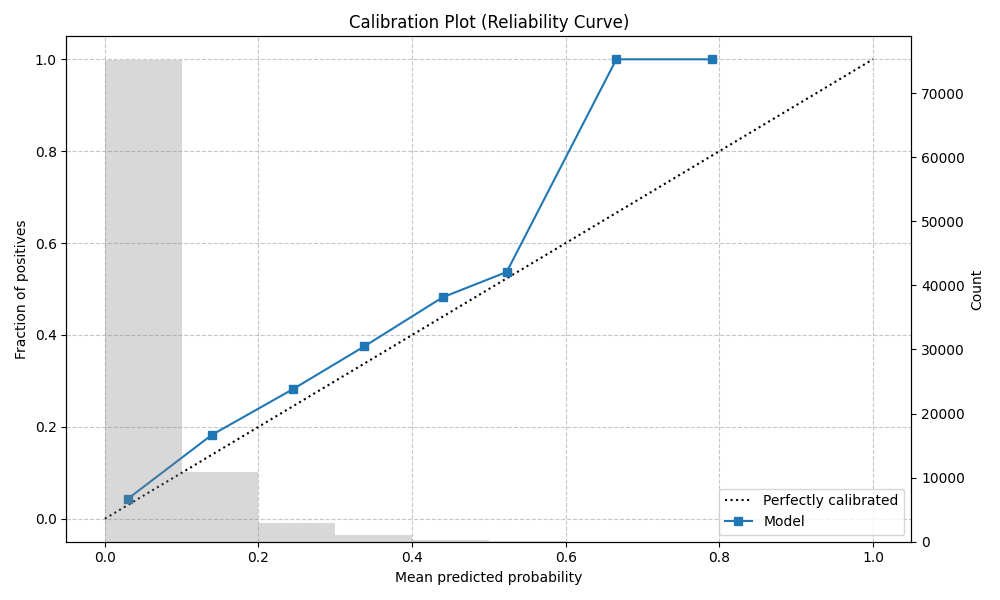
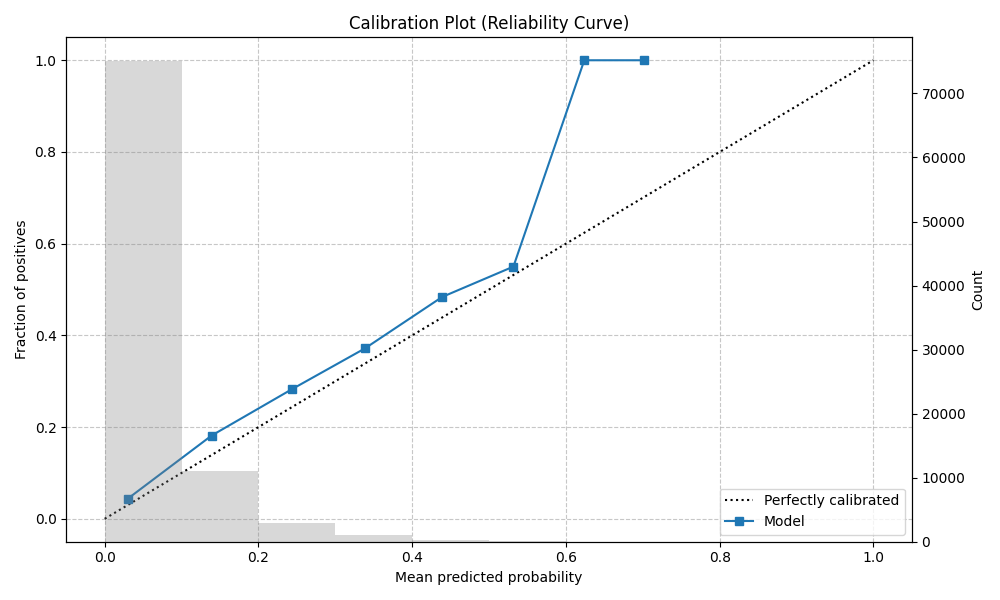
feat: シミュレーション戦略のEV閾値を調整し、キャリブレーション曲線を更新

diff --git a/src/strategy/simulate.py b/src/strategy/simulate.py
@@ -16,7 +16,7 @@ class Backtester:
     def __init__(self, data_path='data/common/raw_data/results.csv'):
         self.data_path = data_path
         self.fe = FeatureEngineer()
-        self.strategy = BettingStrategy(ev_threshold=1.5)
+        self.strategy = BettingStrategy(ev_threshold=2.0)
 
     def prepare_features(self, df):
         """

diff --git a/src/model/train.py b/src/model/train.py
@@ -181,6 +181,7 @@ def train_model(data_path='data/common/raw_data/results.csv', model_dir='models'
         study.optimize(objective, n_trials=20) 
         
         best_params = study.best_params
+        
         logger.info(f"Best params: {best_params}")
         
         # Save best params
